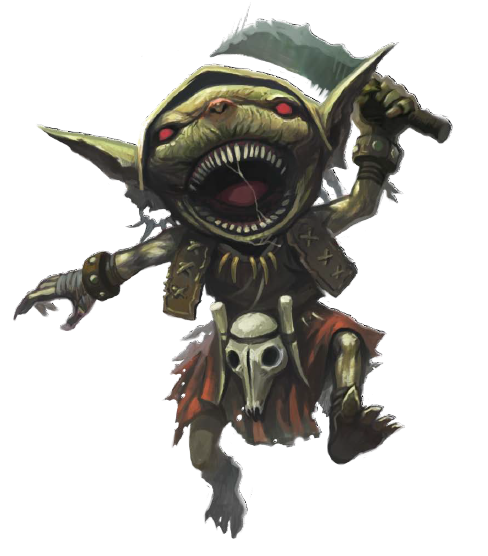
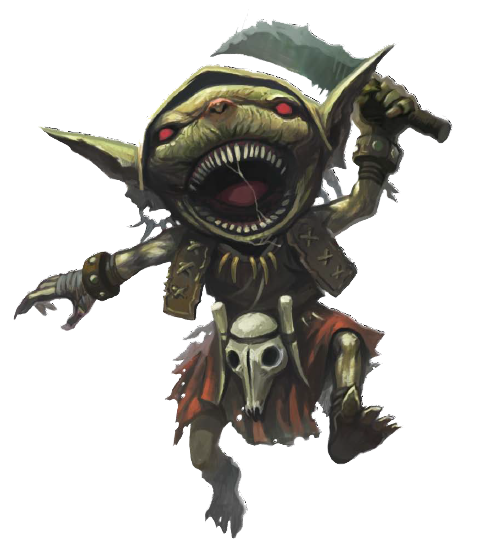
Image resizing

diff --git a/src/monster_Goblin.java b/src/monster_Goblin.java
@@ -29,8 +29,8 @@ public class monster_Goblin extends Monster {
 
         Image sprite = loadImage("monster_Goblin.png");
         setSprite(sprite);
-        setSpriteWidth(150);
-        setSpriteHeight(150);
+        setSpriteWidth(200);
+        setSpriteHeight(200);
 
         setUpAbilityNumberI(temp, 0, "Bite", 0, 0, 0, 0, 0, false, -1,"", true, Ability.AbilityType.damage);
         setUpAbilityNumberI(temp, 1, "Slash", 1, 1, -1, 0, 0, false, 1, "", true, Ability.AbilityType.damage);

diff --git a/src/monster_Wolf.java b/src/monster_Wolf.java
@@ -29,8 +29,8 @@ public class monster_Wolf extends Monster {
 
         Image sprite = loadImage("monster_Wolf.png");
         setSprite(sprite);
-        setSpriteWidth(150);
-        setSpriteHeight(150);
+        setSpriteWidth(200);
+        setSpriteHeight(200);
 
         setUpAbilityNumberI(temp, 0, "Bite", 0, 0, 0, 0, 0, false, -1,"", true, Ability.AbilityType.damage);
         temp[1]= new ability_monster_roar();

diff --git a/src/monster_Witch.java b/src/monster_Witch.java
@@ -33,8 +33,8 @@ public class monster_Witch extends Monster {
 
         Image sprite = loadImage("monster_Witch.png");
         setSprite(sprite);
-        setSpriteWidth(150);
-        setSpriteHeight(150);
+        setSpriteWidth(200);
+        setSpriteHeight(200);
     }
 
     public Ability moveChoice(){

diff --git a/src/Character.java b/src/Character.java
@@ -364,6 +364,8 @@ public class Character extends Statblock {
         setSprite(sprite);
         setSpriteWidth(150);
         setSpriteHeight(150);
+        //setXPTotal(10500); //< TESTERS
+        //checkLevelUp(); //< Tester
     }
 
     public void unlockAbility(){
